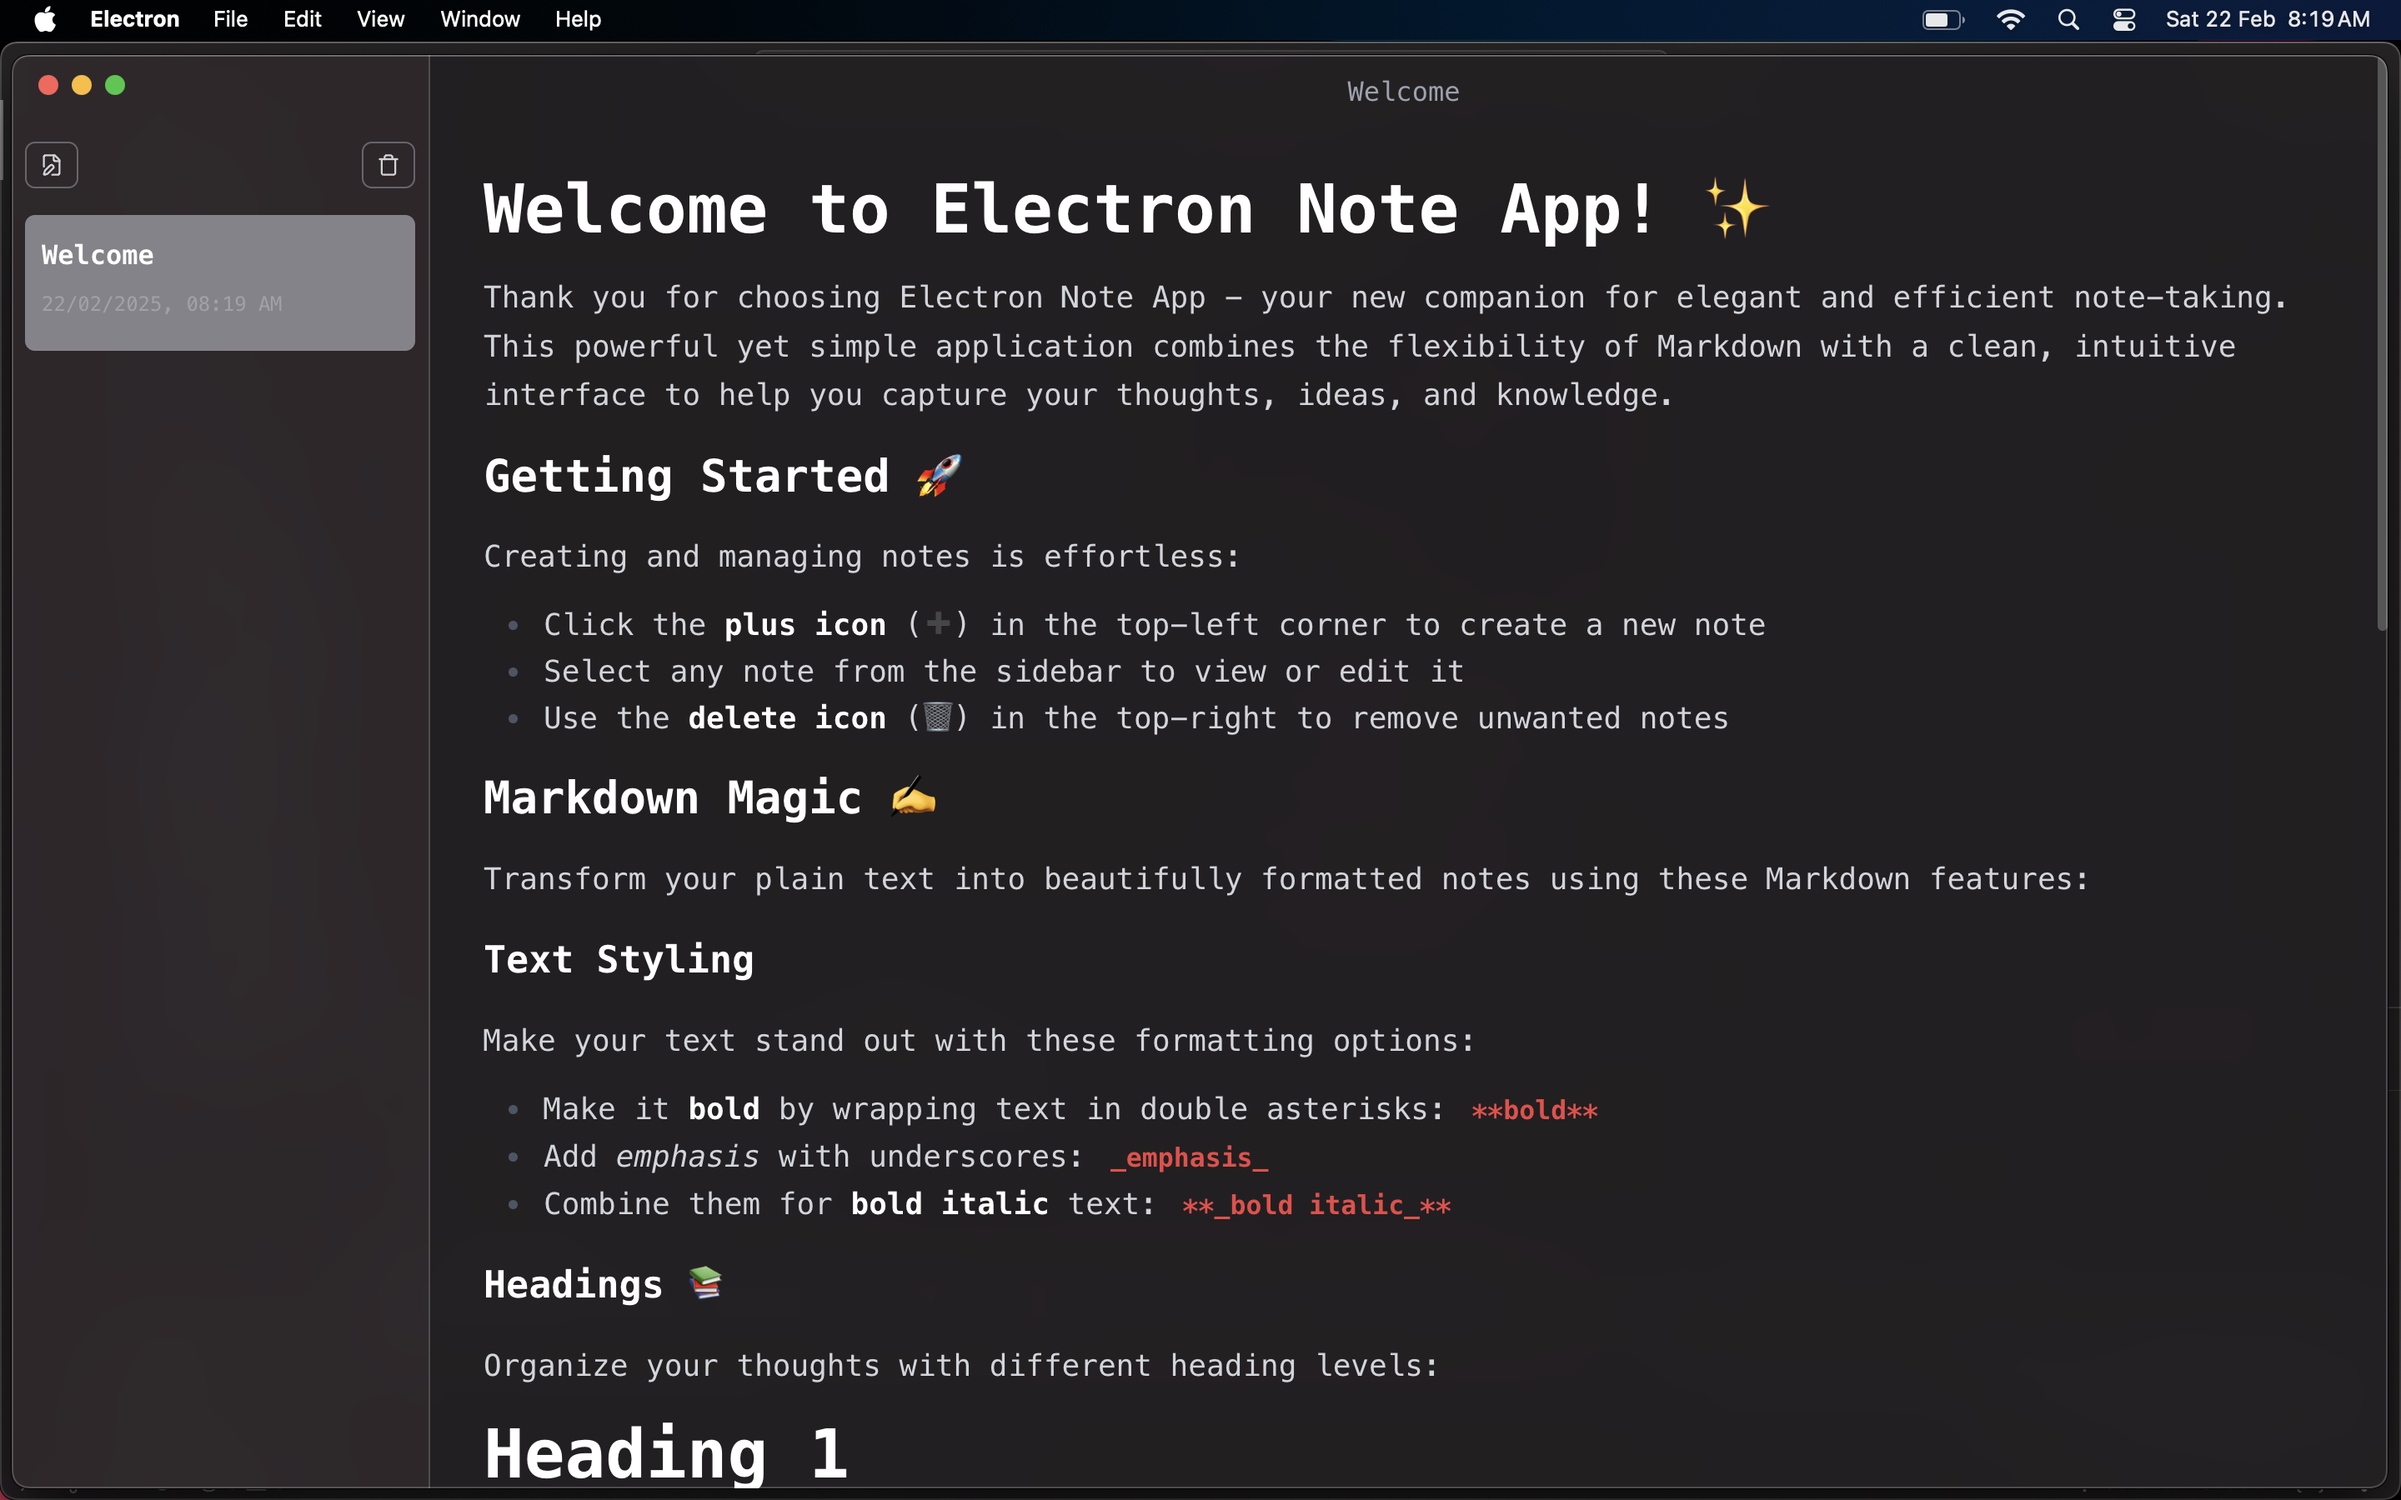
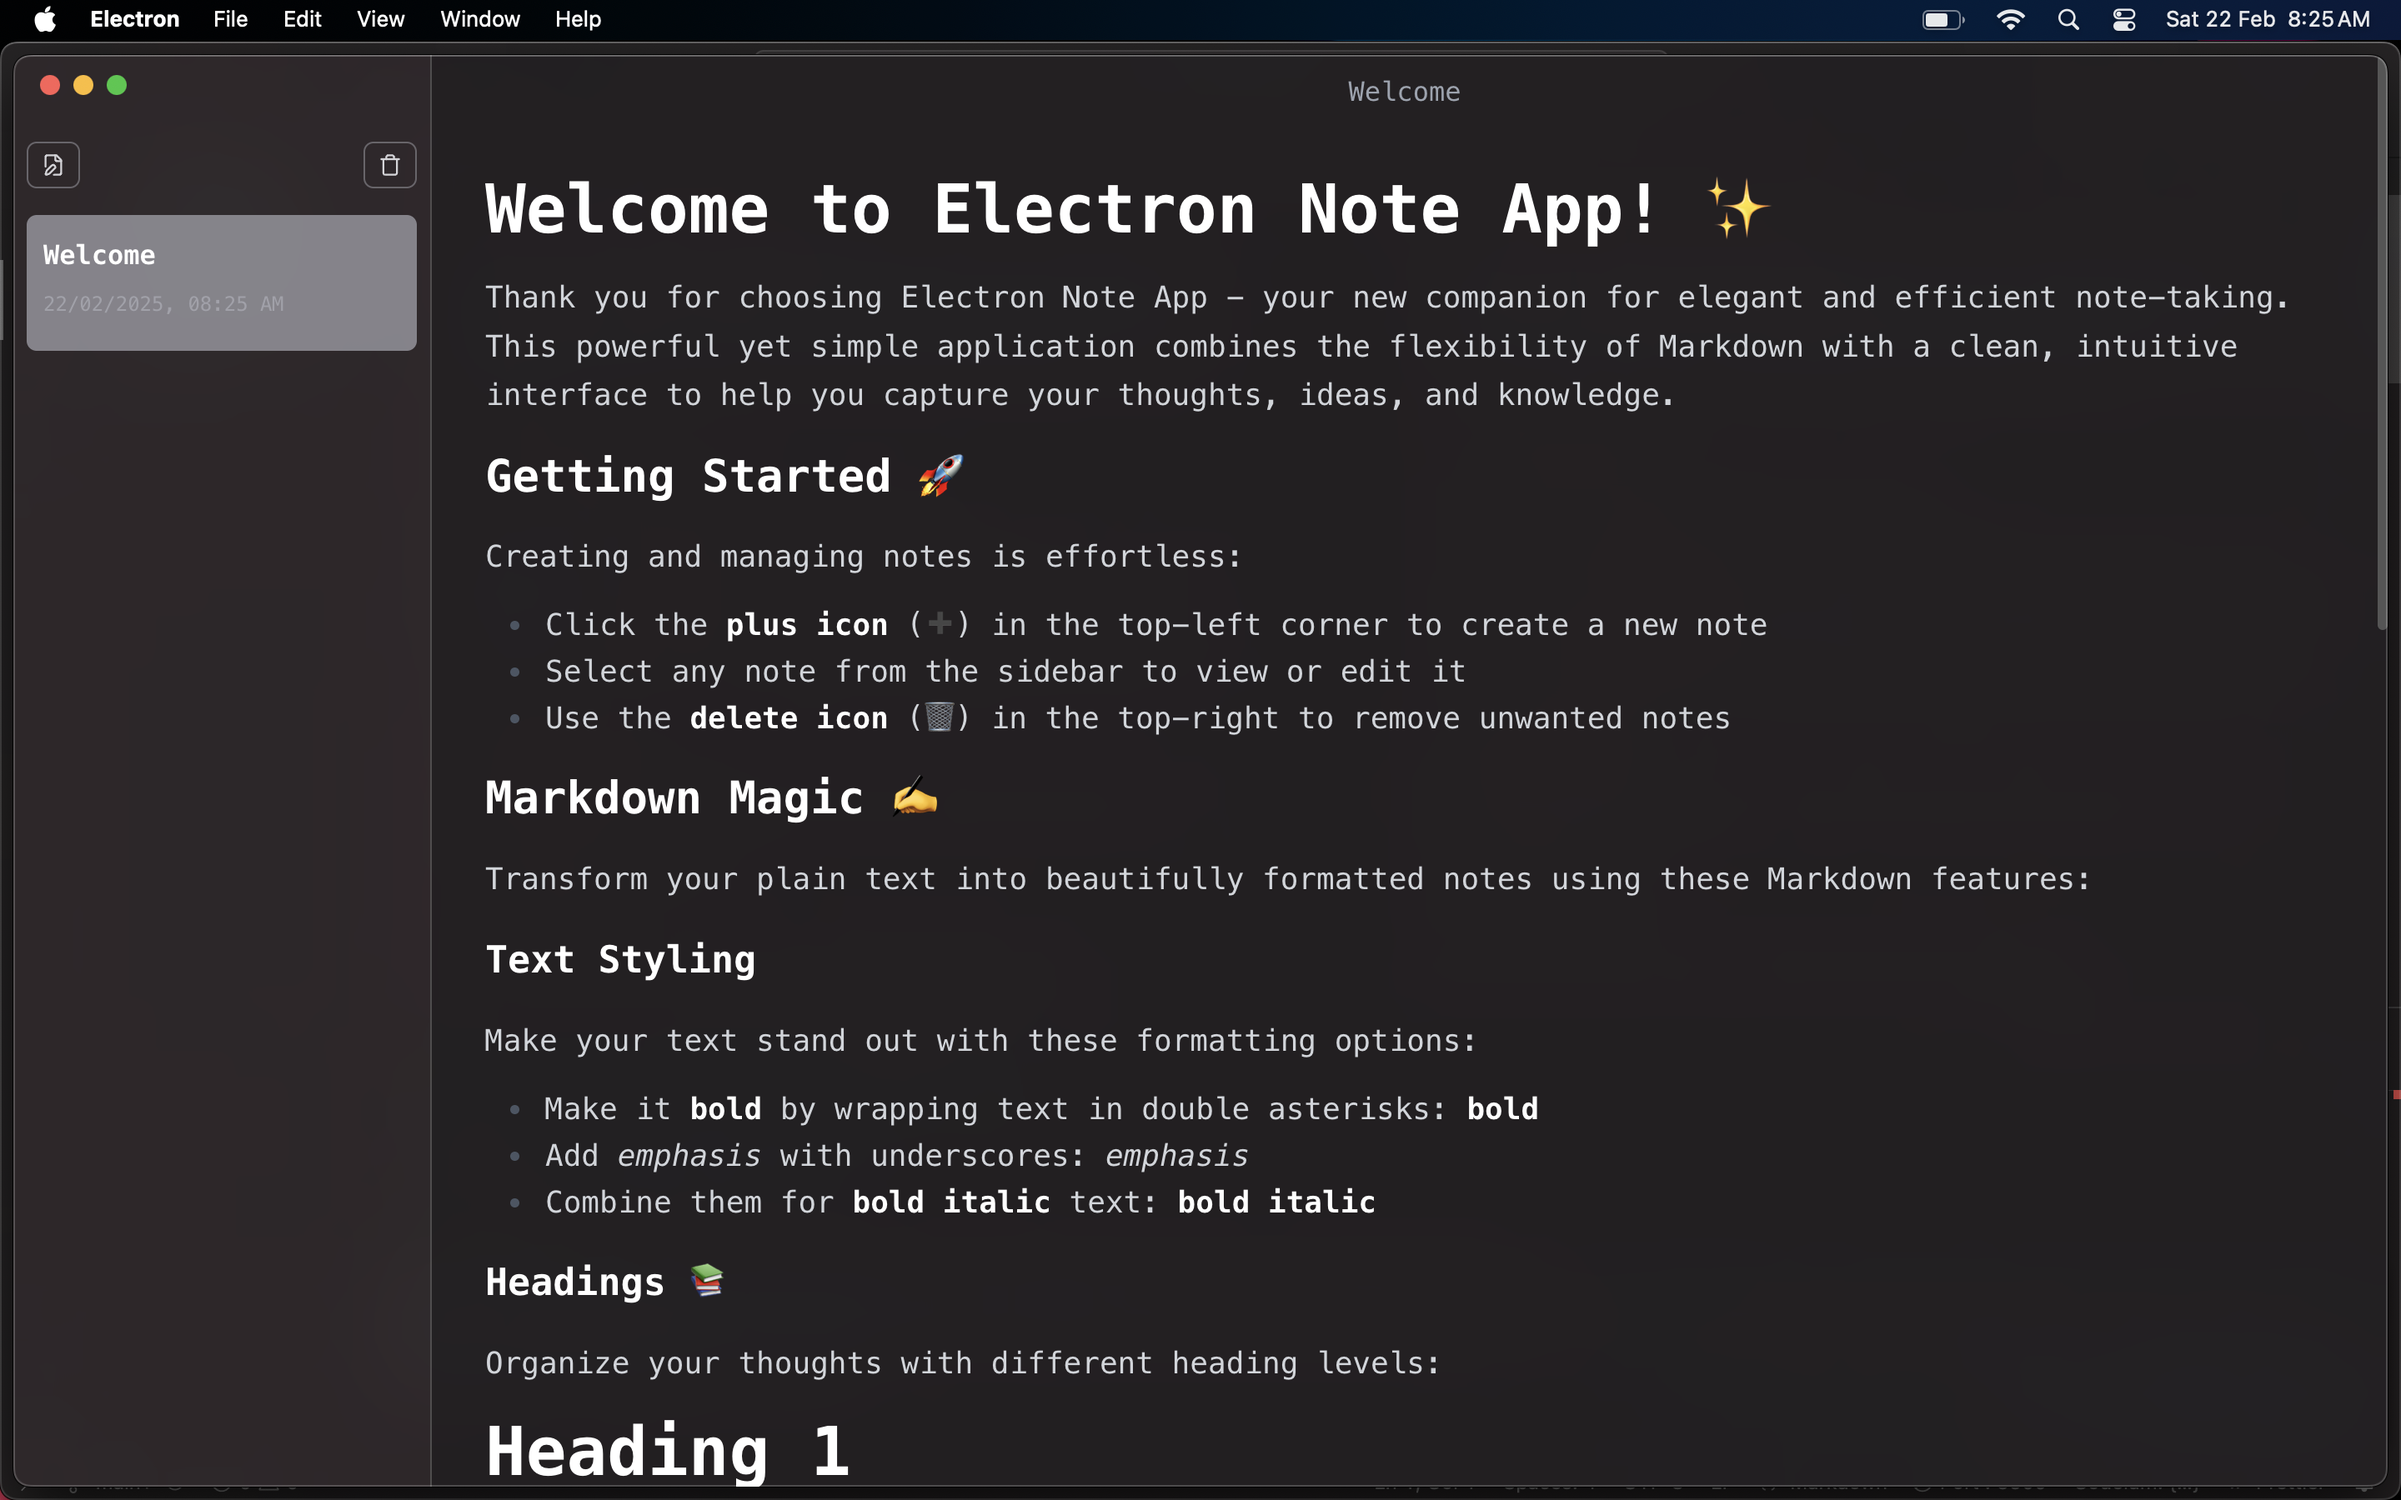
chore: updated preview and welecome note

diff --git a/resources/welcome-note.md b/resources/welcome-note.md
@@ -18,9 +18,9 @@ Transform your plain text into beautifully formatted notes using these Markdown 
 
 Make your text stand out with these formatting options:
 
-- Make it **bold** by wrapping text in double asterisks: `**bold**`
-- Add _emphasis_ with underscores: `_emphasis_`
-- Combine them for **_bold italic_** text: `**_bold italic_**`
+- Make it **bold** by wrapping text in double asterisks: **bold**
+- Add _emphasis_ with underscores: _emphasis_
+- Combine them for **_bold italic_** text: **_bold italic_**
 
 ### Headings 📚
 
